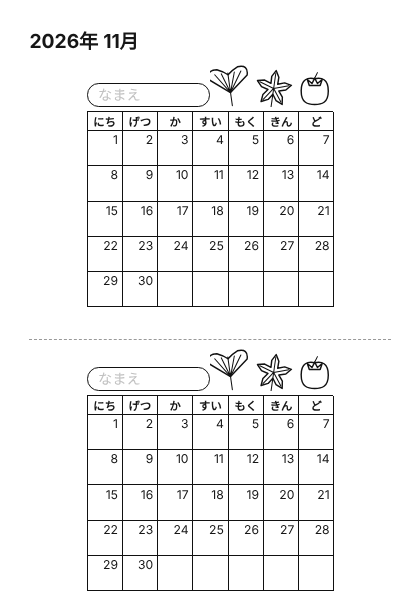
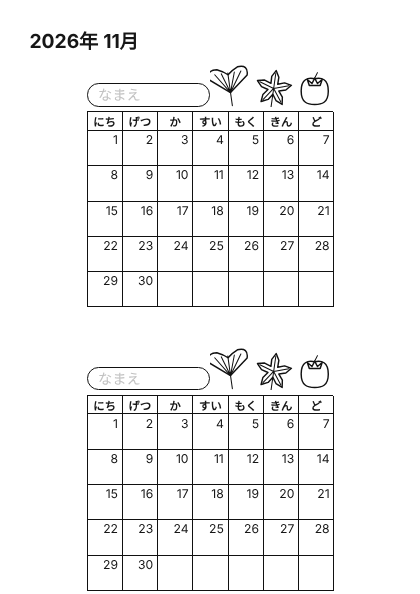
下書き:カレンダーの中央の点線を削除
Claude-Session: https://claude.ai/code/session_01MgYQDTBqz1NfjzDtSYTpmL

diff --git a/docs/assets/sheet.css b/docs/assets/sheet.css
@@ -129,7 +129,7 @@ svg.seal-svg text{font-family:var(--f-ui);font-size:1.9px;fill:#b3b3b3;stroke:no
 /* 月ごとのカレンダー(2人ぶん)。マスの一辺 --c(cqw)は、行数に合わせて site.js が決める */
 .cal{flex:1;min-height:0;display:flex;flex-direction:column}
 .cb{flex:1;min-height:0;display:flex;flex-direction:column;align-items:center}
-.cb+.cb{border-top:.25cqw dashed #999;padding-top:2cqw}
+.cb+.cb{padding-top:2cqw}
 .cbw{width:calc(var(--c)*7cqw)}
 .ch{display:flex;justify-content:space-between;align-items:flex-end;height:10cqw;margin-bottom:1cqw}
 .ch svg{width:30cqw;height:10cqw;display:block}

diff --git a/static/sheet.css b/static/sheet.css
@@ -129,7 +129,7 @@ svg.seal-svg text{font-family:var(--f-ui);font-size:1.9px;fill:#b3b3b3;stroke:no
 /* 月ごとのカレンダー(2人ぶん)。マスの一辺 --c(cqw)は、行数に合わせて site.js が決める */
 .cal{flex:1;min-height:0;display:flex;flex-direction:column}
 .cb{flex:1;min-height:0;display:flex;flex-direction:column;align-items:center}
-.cb+.cb{border-top:.25cqw dashed #999;padding-top:2cqw}
+.cb+.cb{padding-top:2cqw}
 .cbw{width:calc(var(--c)*7cqw)}
 .ch{display:flex;justify-content:space-between;align-items:flex-end;height:10cqw;margin-bottom:1cqw}
 .ch svg{width:30cqw;height:10cqw;display:block}
